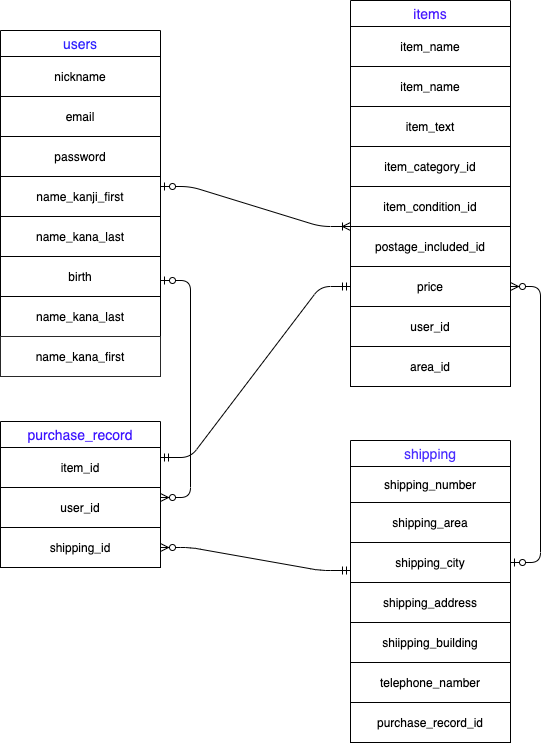
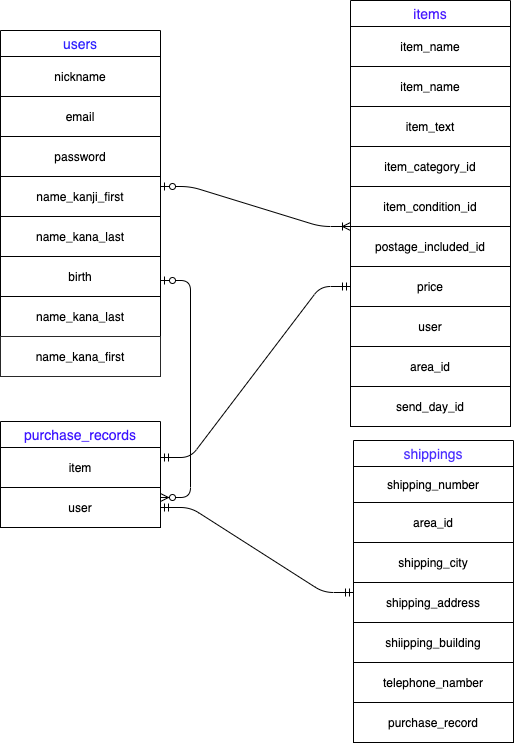
issue3修正
https://gyazo.com/4ef5fed6e55cba8f3da936f63f53d04f

diff --git a/README.md b/README.md
@@ -3,7 +3,7 @@
 | Column             | Type     |   Options                 |
 |--------------------|----------|---------------------------|
 | nickname           | string   | null: false,              |
-| emali              | string   | null: false, unique: true |
+| email              | string   | null: false, unique: true |
 | encrypted_password | string   | null: false               |
 | name_kanji_last    | string   | null: false               |
 | name_kanji_first   | string   | null: false               |
@@ -26,9 +26,9 @@
 | item_condition_id   | integer   | null: false                   |
 | postage_included_id | integer   | null: false                   |
 | price               | integer   | null: false                   |
-| user_id             | references| null:false, foreign_key: true |
+| user                | references| null: false,foreign_key: true |
 | area_id             | integer   | null: false                   |
-
+| send_day_id         | integer   | null: false                   |
 ### Association
 
 - belongs_to :user
@@ -38,27 +38,27 @@
 
 | Column            |    Type    | Options                       |
 |-------------------|------------|-------------------------------|
-| item_id           | references | null:false, foreign_key: true |
-| user_id           | references | null:false, foreign_key: true |
-| shipping_id       | references | null:false, foreign_key: true |
+| item              | references | null:false, foreign_key: true |
+| user              | references | null:false, foreign_key: true |
+
 
 ### Association
 
 - belongs_to :user
 - belongs_to :item
-- belongs_to :shipping
+- has_one :shipping
 
 ##shippingsテーブル
 
 | Column            | Type       | Options                       |
 |-------------------|------------|-------------------------------|
-| shipping_number   | integer    | null:false                    |
-| are_id            | integer    | null:false                    |
+| shipping_number   | string     | null:false                    |
+| area_id           | integer    | null:false                    |
 | shipping_city     | string     | null:false                    |
 | shipping_address  | string     | null:false                    |
 | shipping_building | string     |                               |
 | telephone_number  | string     | null:false                    |          
-| purchase_record_id| references | null:false, foreign_key: true |
+| purchase_record   | references | null:false, foreign_key: true |
 ### Association
 
-- has_many :purchase_records
+- belongs_to :purchase_records
